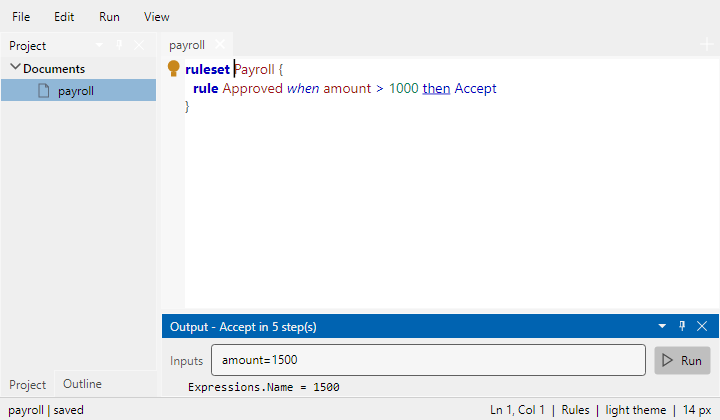
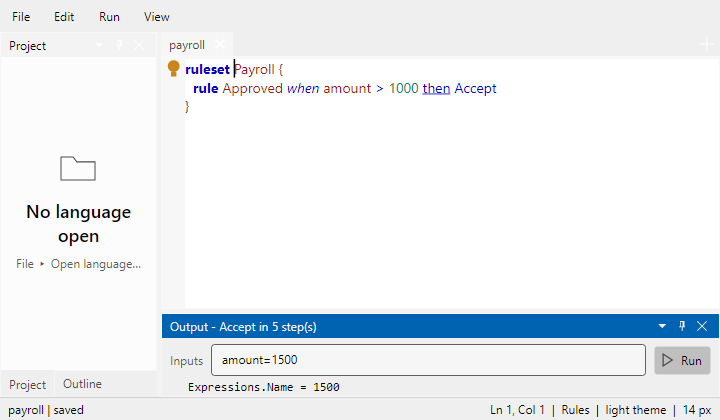
feat(workbench): the explorer lists the project, not the tabs
The panel opened with a Documents group holding every open document, which repeated what the
document strip and the title bar already say and pushed the folders - the reason the panel
exists - out of view. An open document is no longer a row. The open tabs are still what tells
a *file* row that it is open and whether it is modified, which is where its star comes from.

A panel with nothing in it now says so and names File > Open language, because the next step is
a menu entry the user would otherwise have to guess.

The pictures are regenerated, which is how the shell's shots are kept from showing a state the
editor no longer reaches: every shot that shows the panel now starts at Languages.

diff --git a/tests/Projectional.Core.Tests/ProjectExplorerTests.cs b/tests/Projectional.Core.Tests/ProjectExplorerTests.cs
@@ -14,33 +14,31 @@ public sealed class ProjectExplorerTests
     private static readonly HashSet<string> NothingCollapsed = [];
 
     [Fact]
-    public void NoDocumentsAndNoLanguagesIsNoRows()
+    public void NoLanguagesIsNoRows()
     {
         Assert.Empty(ProjectExplorer.Of([], [], NothingCollapsed));
     }
 
     [Fact]
-    public void OpenDocumentsAreOneGroupInTabOrder()
-    {
-        using var first = Tab("payroll");
-        using var second = Tab("Release");
-
-        var rows = ProjectExplorer.Of([first, second], [], NothingCollapsed);
-
-        Assert.Equal(["Documents", "payroll", "Release"], rows.Select(row => row.Text));
-        Assert.Equal([0, 1, 1], rows.Select(row => row.Depth));
-        Assert.Same(first, rows[1].Document);
-        Assert.Equal(ProjectNode.Document, rows[1].Kind);
-    }
-
-    [Fact]
-    public void AModifiedDocumentCarriesItsStar()
+    public void AnOpenDocumentIsNotARow()
     {
         using var tab = Tab("payroll");
 
+        // The explorer is the project, not a second tab strip: the tab strip and the title bar already say what is open.
+        Assert.Empty(ProjectExplorer.Of([tab], [], NothingCollapsed));
+    }
+
+    [Fact]
+    public void AModifiedDocumentMarksItsFile()
+    {
+        var language = Language();
+        var path = ProjectExplorer.Of([], [language], NothingCollapsed).First(row => row.Kind == ProjectNode.File).Path!;
+
+        using var tab = Tab("payroll", path);
+
         tab.Root.Set("name", "Renamed");
 
-        var row = Assert.Single(ProjectExplorer.Of([tab], [], NothingCollapsed).Skip(1));
+        var row = Assert.Single(ProjectExplorer.Of([tab], [language], NothingCollapsed), row => row.Kind == ProjectNode.File && row.Path == path);
 
         Assert.True(row.IsDirty);
     }
@@ -80,13 +78,12 @@ public sealed class ProjectExplorerTests
     [Fact]
     public void ACollapsedHeadingDropsEverythingUnderIt()
     {
-        using var tab = Tab("payroll");
         var language = Language();
 
-        var collapsed = new HashSet<string> { ProjectExplorer.DocumentsKey, ProjectExplorer.LanguagesKey };
-        var rows = ProjectExplorer.Of([tab], [language], collapsed);
+        var collapsed = new HashSet<string> { ProjectExplorer.LanguagesKey };
+        var rows = ProjectExplorer.Of([], [language], collapsed);
 
-        Assert.Equal(["Documents", "Languages"], rows.Select(row => row.Text));
+        Assert.Equal(["Languages"], rows.Select(row => row.Text));
         Assert.All(rows, row => Assert.False(row.IsExpanded));
     }
 
@@ -98,19 +95,14 @@ public sealed class ProjectExplorerTests
 
         using var tab = Tab("Pipeline", path);
 
-        // Twice on purpose: once under what is open, once under the project it belongs to.
-        var rows = ProjectExplorer.Of([tab], [language], NothingCollapsed);
-
-        Assert.Same(tab, rows.Single(row => row.Depth == 1 && row.Document is not null).Document);
-
-        var row = rows.Single(row => row.Kind == ProjectNode.File && row.Path == path);
+        var row = Assert.Single(ProjectExplorer.Of([tab], [language], NothingCollapsed), row => row.Kind == ProjectNode.File && row.Path == path);
 
         Assert.Same(tab, row.Document);
         Assert.Equal(Path.GetFileName(path), row.Text);
     }
 
     [Fact]
-    public void OnlyRealFoldersAndDocumentsAreLeavesAndTheRestCanBeOpened()
+    public void OnlyFoldersAndFilesAreLeavesAndTheRestCanBeOpened()
     {
         var language = Language();
 

diff --git a/src/Projectional.Workbench/Project/ProjectExplorer.cs b/src/Projectional.Workbench/Project/ProjectExplorer.cs
@@ -43,8 +43,6 @@ internal static class ProjectExplorer
         TestRunner.Folder,
     ];
 
-    /// <summary>The key of the open-documents heading.</summary>
-    internal const string DocumentsKey = "documents";
 
     /// <summary>The key of the languages heading.</summary>
     internal const string LanguagesKey = "languages";
@@ -88,7 +86,7 @@ internal static class ProjectExplorer
     }
 
     /// <summary>The rows, in the order the explorer draws them.</summary>
-    /// <param name="documents">The open documents, in tab order.</param>
+    /// <param name="documents">The open documents, which is only how a file row learns it is open - the explorer lists the project, not the tabs.</param>
     /// <param name="languages">The language projects this window has opened, in the order they joined.</param>
     /// <param name="collapsed">The keys of the nodes drawn shut.</param>
     internal static IReadOnlyList<ProjectEntry> Of(
@@ -101,21 +99,6 @@ internal static class ProjectExplorer
         ArgumentNullException.ThrowIfNull(collapsed);
 
         var rows = new List<ProjectEntry>();
-
-        if (documents.Count > 0)
-        {
-            var open = !collapsed.Contains(DocumentsKey);
-
-            rows.Add(new ProjectEntry("Documents", 0, ProjectNode.Group, DocumentsKey, open));
-
-            if (open)
-            {
-                foreach (var document in documents)
-                {
-                    rows.Add(new ProjectEntry(document.Title, 1, ProjectNode.Document, document: document, path: document.FilePath));
-                }
-            }
-        }
 
         if (languages.Count == 0)
         {

diff --git a/src/Projectional.Workbench/Project/ProjectEntry.cs b/src/Projectional.Workbench/Project/ProjectEntry.cs
@@ -98,7 +98,6 @@ internal sealed record ProjectEntry
     {
         ProjectNode.Group => null,
         ProjectNode.Project => ProjectIcons.ProjectKey,
-        ProjectNode.Document => ProjectIcons.DocumentKey,
         ProjectNode.Folder => Folder ?? ProjectIcons.FolderKey,
         _ => Folder ?? ProjectIcons.FileKey,
     };
@@ -128,8 +127,8 @@ internal sealed record ProjectEntry
     /// <summary>Whether the row is a language project, which is drawn with its own icon.</summary>
     internal bool IsProject => Kind is ProjectNode.Project;
 
-    /// <summary>Whether the row is a file or a document, which is drawn with a page icon.</summary>
-    internal bool IsFile => Kind is ProjectNode.File or ProjectNode.Document;
+    /// <summary>Whether the row is a definition file, which is drawn with a page icon.</summary>
+    internal bool IsFile => Kind is ProjectNode.File;
 
     /// <summary>Whether the row's document has changes that are not on disk.</summary>
     internal bool IsDirty => Document is { IsDirty: true };

diff --git a/src/Projectional.Workbench/Shell/Panels/IsEmptyConverter.cs b/src/Projectional.Workbench/Shell/Panels/IsEmptyConverter.cs
@@ -1,0 +1,23 @@
+using System.Globalization;
+using Avalonia.Data;
+using Avalonia.Data.Converters;
+
+namespace Projectional.Workbench;
+
+/// <summary>
+/// Whether a list has nothing in it, so a panel can say what to do instead of showing a blank rectangle.
+/// </summary>
+/// <remarks>
+/// Bound to a control's item count rather than to a property the shell sets: the count is the same fact the rows are,
+/// and a second flag for it could disagree with the list it describes.
+/// </remarks>
+internal sealed class IsEmptyConverter : IValueConverter
+{
+    public static IsEmptyConverter Instance { get; } = new();
+
+    public object Convert(object? value, Type targetType, object? parameter, CultureInfo culture) =>
+        value is not int count || count == 0;
+
+    public object ConvertBack(object? value, Type targetType, object? parameter, CultureInfo culture) =>
+        BindingOperations.DoNothing;
+}

diff --git a/src/Projectional.Workbench/MainWindow.axaml.cs b/src/Projectional.Workbench/MainWindow.axaml.cs
@@ -1147,7 +1147,6 @@ public sealed partial class MainWindow : Window, IDisposable
     internal void CollapseProjectFolders()
     {
         _collapsed.Clear();
-        _collapsed.Add(ProjectExplorer.DocumentsKey);
 
         foreach (var language in _language.Opened)
         {

diff --git a/src/Projectional.Workbench/Project/ProjectNode.cs b/src/Projectional.Workbench/Project/ProjectNode.cs
@@ -15,6 +15,4 @@ internal enum ProjectNode
     /// <summary>A definition document of a project, open or not.</summary>
     File,
 
-    /// <summary>An open document in the <c>Documents</c> group.</summary>
-    Document,
 }

diff --git a/docs/implemented.md b/docs/implemented.md
@@ -287,7 +287,7 @@ alone, and `docs/architecture/standalone.md` describes the extraction M6 owns.
 | Byte-identical round trip over the whole corpus | `tests/Projectional.Core.Tests/Corpus/` | `CorpusTests` |
 | What a full recheck costs, measured rather than argued: layout, constraints, checks and one rechecked node for a document of each size, in two languages | `tools/Projectional.Benchmarks/` | `dotnet run -c Release --project tools/Projectional.Benchmarks`; the numbers it answered with are recorded in [constraints.md](architecture/semantics/constraints.md#what-a-full-recheck-costs) |
 | The shell's chrome: one panel area under the document instead of three stacked borders - Output, Problems and Usages are tabs of a strip that a `GridSplitter` resizes, each tab closable from its own header and reopened from **View ▸ Panels**, and the strip disappears when the last tab does. The outline is a resizable column whose header names the document it lists. The Edit menu gains Undo/Redo/Cut/Copy/Paste/Select all, the five "new ..." commands move under **File ▸ New**, and every gesture is *displayed* right-aligned (`InputGesture`) rather than spelled into the header - the editor control still owns the keys. A tab carries a close button beside its dirty star, the status bar is one line (document and dirty state left, the last command's answer in the middle, `Ln`/`Col`, language, theme and size right), a window with nothing open shows a page instead of a white rectangle, the find bar keeps its replace row folded until it is asked for (`Ctrl+H`, or the toggle), and the surfaces, type sizes and row heights are named resources in one style block instead of a font size beside every control. **Then the details a shell is judged on**: the document strip scrolls sideways instead of wrapping into rows and has a "+" at its right end, a panel's count survives its tab being closed (the status bar offers "2 problems" and opens the tab again), a panel row moves the caret on a double click or Enter rather than on every arrow key, the window title names the open document and its dirty state, a long status line carries its whole sentence in a tooltip, and a file dragged onto the window opens as a document or is offered to the importers | `Projectional.Workbench/MainWindow.axaml` (the theme dictionaries, the style block, the panel tabs, both splitters, `DocumentTabStripTheme`, the status bar), `MainWindow.axaml.cs` (`ShowPanel`/`UpdatePanelArea`/`RevealOutput`, `OnUndo`-`OnSelectAll`, `UpdateStatusDetail`, `OnCaretMoved`, `OnDrop`/`OnDragOver`, `UpdatePanelCommands`), `Documents/DocumentTabHeader`, `Projectional.Editing/CaretSpot`, `Projectional.Avalonia` (`ProjectionalEditorControl.SelectionChanged`) | `CaretSpotTests` (a nested node's row, the column into the caret's cell, the end of a value, and a hard-wrapped second line starting its column again); the rest is wiring, and `tools/Projectional.Screenshots` renders the shipping window, which is where the strip, the tab headers, the empty page and the one-line status bar are checked |
-| The project explorer and the capability set: the left column is two tabs - **Project** (what is open, and what every opened language is made of: its folders as rows and the definition documents inside them, a modified document starred and an open one carrying its tab; every node with children has a chevron, the folders and projects have their own icons, and the expansion state is the window's - a collapsed node's children are not built at all, so a shut project is one row rather than a hidden tree) and **Outline** - and both the column and the document strip are built from `ShellCapability`, so a host that embeds the shell can switch modules off. `ShellCapabilities.Standalone` grants every module; `ShellCapabilities.Embedded` grants create/edit/save/open with the outline and the problems, and no run window and no project explorer. A module that is not granted is not composed (menu entries, tabs, the whole side column) *and* its command refuses - hiding an entry is presentation, refusing is the guarantee (ADR 0015). The project explorer reads a language's folders from disk on every build, so a file added or deleted shows up the next time the panel is filled | `Projectional.Workbench/Project/` (`ProjectEntry`, `ProjectExplorer`), `Projectional.Workbench/Shell/ShellCapability`, `MainWindow` (`Compose`, `ShowProject`, `OnProjectChosen`, `OpenProjectFile`, the capability guards in the command handlers), `MainWindow.axaml` (`SideTabs`, the named menus and items `Compose` composes) | `ProjectExplorerTests` (no rows for nothing, documents in tab order, the star a modified document carries, a language's folders as rows with their files under them, a file that is open carrying its tab), `ShellCapabilityTests` (the standalone set grants every flag, the embedded set is an editor without the run window or the project explorer, every embedded flag is in the standalone set, a composite request needs every flag, an empty set grants nothing); the panel itself is checked by `tools/Projectional.Screenshots`, whose import picture shows the folder tree |
+| The project explorer and the capability set: the left column is two tabs - **Project** (what every opened language is made of: its folders as rows and the definition documents inside them, with a file that is open in a tab starring itself when it is modified; every node with children has a chevron, the folders and projects have their own icons, and the expansion state is the window's - a collapsed node's children are not built at all, so a shut project is one row rather than a hidden tree) and **Outline** - and both the column and the document strip are built from `ShellCapability`, so a host that embeds the shell can switch modules off. **The explorer lists the project, not the tabs** - an open document is not a row, because the tab strip and the title bar already say what is open and a second list of the same thing only pushes the folders out of view; what the open tabs are still needed for is a *file* row, which learns from them that it is open and whether it is modified. A panel with nothing in it (no language open) says so and names **File ▸ Open language…** instead of showing a blank rectangle. `ShellCapabilities.Standalone` grants every module; `ShellCapabilities.Embedded` grants create/edit/save/open with the outline and the problems, and no run window and no project explorer. A module that is not granted is not composed (menu entries, tabs, the whole side column) *and* its command refuses - hiding an entry is presentation, refusing is the guarantee (ADR 0015). The project explorer reads a language's folders from disk on every build, so a file added or deleted shows up the next time the panel is filled | `Projectional.Workbench/Project/` (`ProjectEntry`, `ProjectExplorer`), `Projectional.Workbench/Shell/ShellCapability`, `Shell/Panels/ProjectPanelView.axaml`, `Shell/Panels/IsEmptyConverter.cs`, `MainWindow` (`Compose`, `ShowProject`, `OnProjectChosen`, `OpenProjectFile`, the capability guards in the command handlers), `MainWindow.axaml` (`SideTabs`, the named menus and items `Compose` composes) | `ProjectExplorerTests` (no languages is no rows, an open document is not a row, a modified document marks its file, a language's folders as rows with their files under them, a file that is open carrying its tab, a collapsed heading dropping everything under it), `ShellCapabilityTests` (the standalone set grants every flag, the embedded set is an editor without the run window or the project explorer, every embedded flag is in the standalone set, a composite request needs every flag, an empty set grants nothing); the panel itself is checked by `tools/Projectional.Screenshots`, whose import picture shows the folder tree and whose gesture checks press a folder's chevron and read the row back - reverting the handler to `sender` makes them fail with "pressing the chevron of 'structure' did not shut it", which is how the check is known to measure the wiring rather than the picture |
 
 ## What is not here
 

diff --git a/docs/architecture/standalone.md b/docs/architecture/standalone.md
@@ -249,10 +249,16 @@ the caret - the same bug the project explorer cannot have, because a selection t
 
 ### The project explorer
 
-The other tab of the left column answers the question one level above the browser's: which documents are open, and
-what the languages opened from a folder are made of. `Project/ProjectExplorer.cs` derives the rows - headings, the open
-documents, each language, its aspect folders and the definition files inside them - and
-`Shell/Panels/ProjectPanelView.axaml` draws them; the window only decides what a press means.
+The other tab of the left column answers the question one level above the browser's: what the languages opened from a
+folder are made of. `Project/ProjectExplorer.cs` derives the rows - a heading per language, its aspect folders and the
+definition files inside them - and `Shell/Panels/ProjectPanelView.axaml` draws them; the window only decides what a
+press means.
+
+**An open document is not a row.** The document strip and the title bar already say what is open, and a second list of
+the same thing only pushes the folders out of view. What the open documents are still needed for is a *file* row, which
+learns from them that it is open and whether it is modified - that is where the star beside a name comes from. A panel
+with nothing in it says so and names **File ▸ Open language…**, because the next step is a menu entry the user would
+otherwise have to guess.
 
 - **A row says what it is drawn as.** One colour per aspect, the aspect's own glyph on a folder, and a letter badge on
   a file naming the kind of definition that aspect holds - a green `C` under `structure`, an amber `E` under `editor`.
